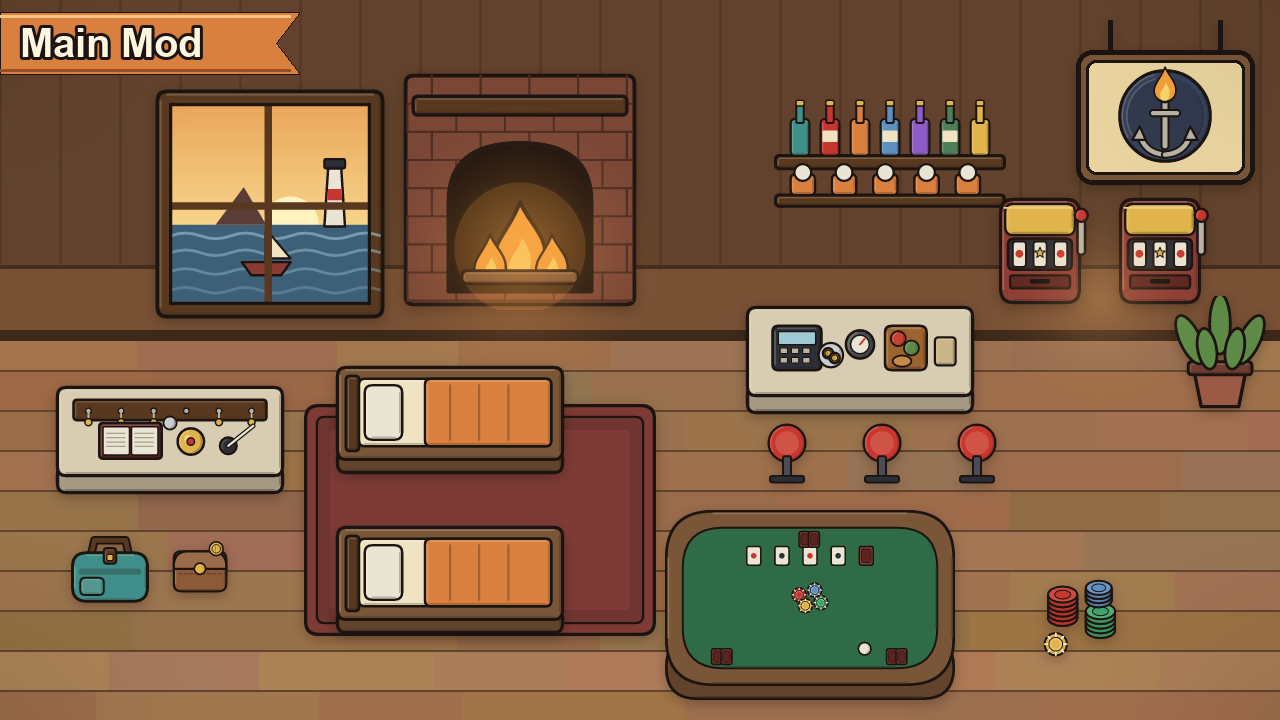
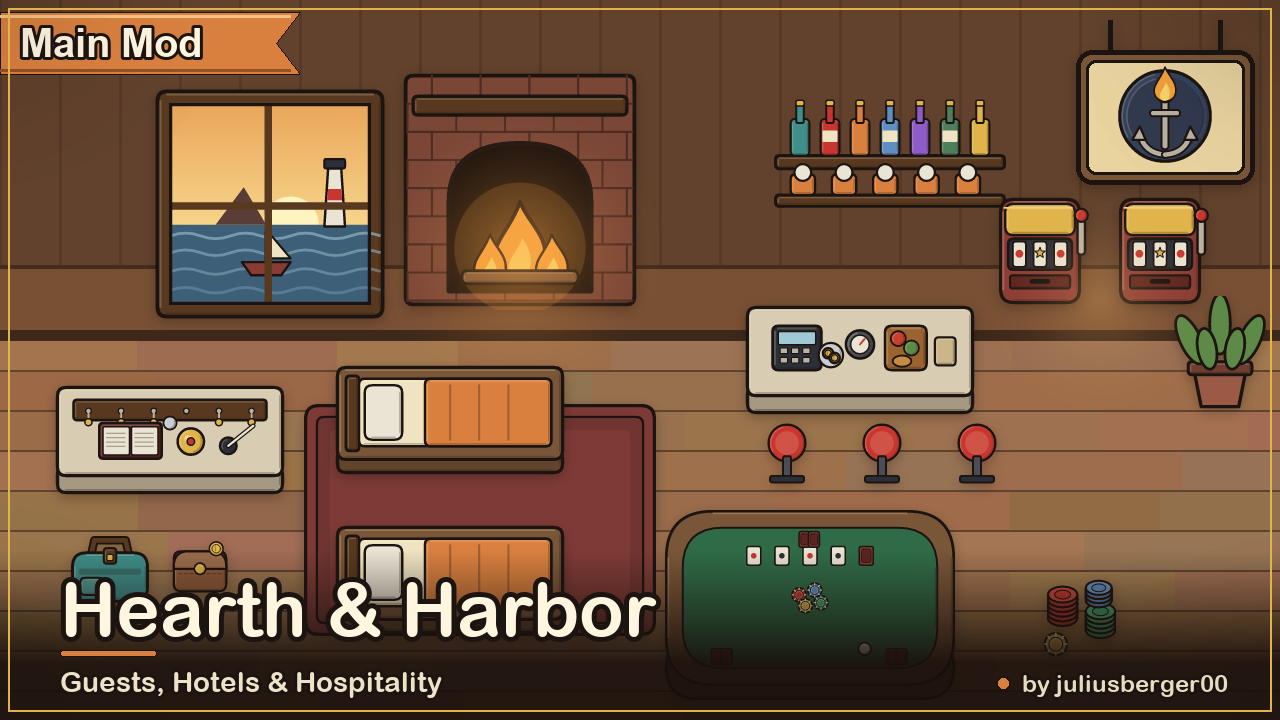
Previews: shared title band on Hearth & Harbor and Silverline previews

Changed region(s): [[0.0, 0.7639, 1.0, 1.0]]

diff --git a/tools/art/previews/titled_main.py b/tools/art/previews/titled_main.py
@@ -1,0 +1,17 @@
+#!/usr/bin/env python3
+"""Adds the shared title band (same as all of Julius' mods) to the Hearth & Harbor and Silverline preview scenes.
+uv run --with pillow python3 tools/art/previews/titled_main.py  → About/Preview.png, About/Silverline_Preview.png"""
+import importlib.util
+from pathlib import Path
+from PIL import Image
+HERE = Path(__file__).resolve().parent
+R = HERE.parents[2]
+spec = importlib.util.spec_from_file_location("kit", HERE / "kit.py"); kit = importlib.util.module_from_spec(spec); spec.loader.exec_module(kit)
+for scene, out, title, tag, acc in [
+    ("HearthHarbor_scene.png", "Preview.png", "Hearth & Harbor", "Guests, Hotels & Hospitality", "#D9803F"),
+    ("Silverline_scene.png", "Silverline_Preview.png", "Silverline", "Banking, Loans & Insurance", "#3FA66B"),
+]:
+    im = Image.open(HERE / "base" / scene).convert("RGBA")
+    res = kit.finish(im, acc, title, tag, "content")
+    res.save(R / "About" / out, optimize=True)
+    print(out, (R / "About" / out).stat().st_size)
